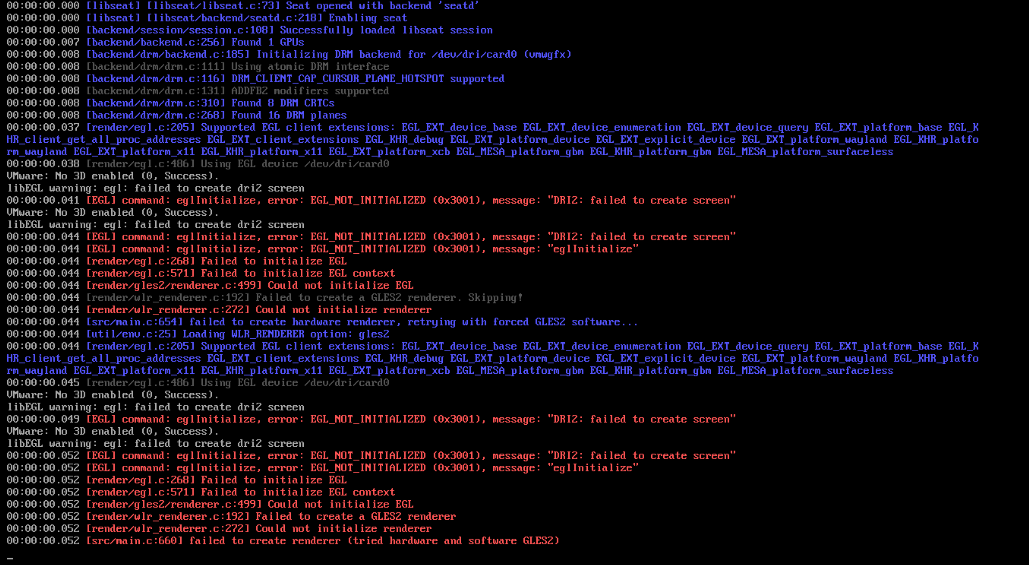
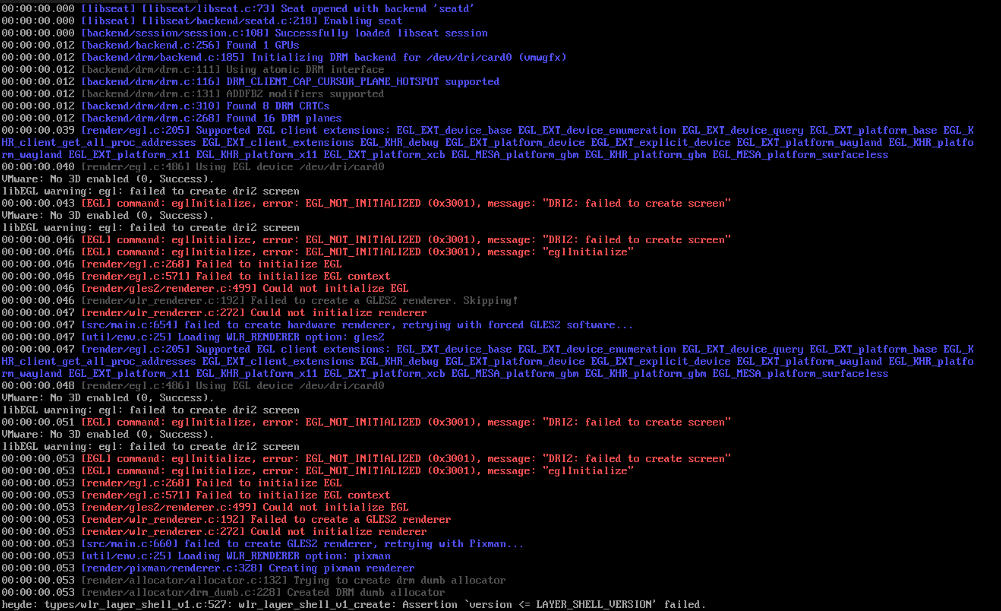
teto

Changed region(s): [[0.0, 0.0, 0.991, 1.0]]

diff --git a/src/main.c b/src/main.c
@@ -657,7 +657,13 @@ int main(int argc, char *argv[]) {
     }
 
     if (!server.renderer) {
-        wlr_log(WLR_ERROR, "failed to create renderer (tried hardware and software GLES2)");
+        wlr_log(WLR_INFO, "failed to create GLES2 renderer, retrying with Pixman...");
+        setenv("WLR_RENDERER", "pixman", 1);
+        server.renderer = wlr_renderer_autocreate(server.backend);
+    }
+
+    if (!server.renderer) {
+        wlr_log(WLR_ERROR, "failed to create renderer (tried hardware, software GLES2, and Pixman)");
         return 1;
     }
 
@@ -725,11 +731,11 @@ int main(int argc, char *argv[]) {
     server.new_output.notify = server_new_output_handler;
     wl_signal_add(&server.backend->events.new_output, &server.new_output);
 
-    server.xdg_shell = wlr_xdg_shell_create(server.wl_display, 6);
+    server.xdg_shell = wlr_xdg_shell_create(server.wl_display, 3);
     server.new_xdg_surface.notify = server_new_xdg_surface_handler;
     wl_signal_add(&server.xdg_shell->events.new_surface, &server.new_xdg_surface);
 
-    server.layer_shell = wlr_layer_shell_v1_create(server.wl_display, 5);
+    server.layer_shell = wlr_layer_shell_v1_create(server.wl_display, 4);
     server.new_layer_shell_surface.notify = server_new_layer_shell_surface_handler;
     wl_signal_add(&server.layer_shell->events.new_surface, &server.new_layer_shell_surface);
 

diff --git a/src/render.c b/src/render.c
@@ -97,6 +97,11 @@ static void fb_init(struct blur_fb *fb, int width, int height) {
 }
 
 void heyde_render_init(struct heyde_server *server) {
+    if (!wlr_renderer_is_gles2(server->renderer)) {
+        wlr_log(WLR_INFO, "Skipping GLES2 shader initialization (not using GLES2 renderer)");
+        return;
+    }
+
     char *vert_src = load_file("src/shaders/basic.vert");
     char *corner_frag_src = load_file("src/shaders/corner.frag");
     char *shadow_frag_src = load_file("src/shaders/shadow.frag");
